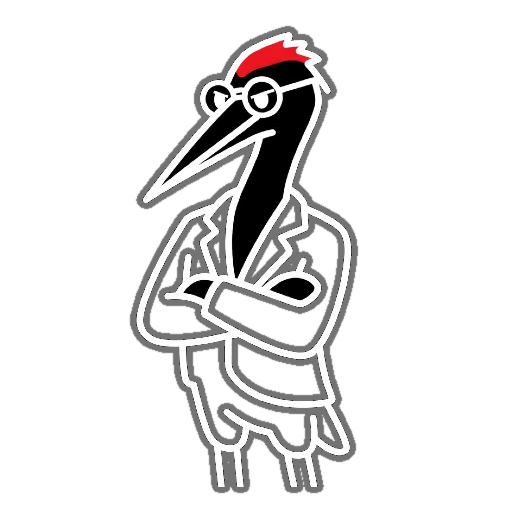
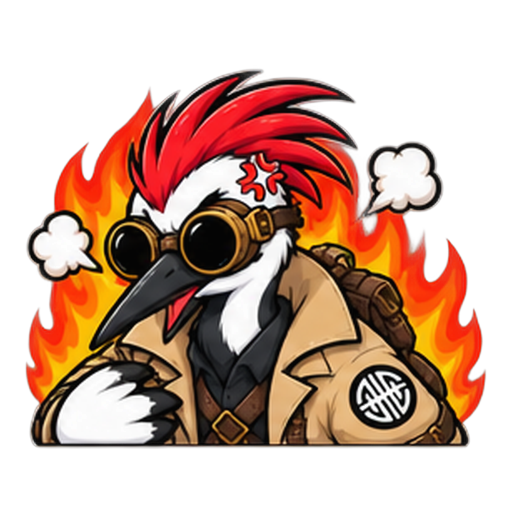
update mascot

diff --git a/mascot/README.md b/mascot/README.md
@@ -1,0 +1,26 @@
+# Mascot (Hak)
+
+Collection of 20 mascot artworks for [Noir](https://github.com/owasp-noir/noir).
+
+| File | Description | Preview |
+|---|---|---|
+| [`hak.png`](hak.png) | Default (Standing) | <img src="hak.png" width="120" /> |
+| [`hak-dev.png`](hak-dev.png) | Developer / Laptop | <img src="hak-dev.png" width="120" /> |
+| [`hak-hacker.png`](hak-hacker.png) | Multi-screen Terminal / Hacker | <img src="hak-hacker.png" width="120" /> |
+| [`hak-inspect.png`](hak-inspect.png) | Magnifying Glass / Inspection | <img src="hak-inspect.png" width="120" /> |
+| [`hak-idea.png`](hak-idea.png) | Lightbulb / Idea | <img src="hak-idea.png" width="120" /> |
+| [`hak-think.png`](hak-think.png) | Thinking / Pondering | <img src="hak-think.png" width="120" /> |
+| [`hak-question.png`](hak-question.png) | Question / Confused | <img src="hak-question.png" width="120" /> |
+| [`hak-good.png`](hak-good.png) | Thumbs Up / Good | <img src="hak-good.png" width="120" /> |
+| [`hak-love.png`](hak-love.png) | Heart / Love | <img src="hak-love.png" width="120" /> |
+| [`hak-peace.png`](hak-peace.png) | Peace / Victory | <img src="hak-peace.png" width="120" /> |
+| [`hak-wave.png`](hak-wave.png) | Waving / Greeting | <img src="hak-wave.png" width="120" /> |
+| [`hak-call.png`](hak-call.png) | Phone Call / Speaking | <img src="hak-call.png" width="120" /> |
+| [`hak-coffee.png`](hak-coffee.png) | Coffee Break | <img src="hak-coffee.png" width="120" /> |
+| [`hak-boss.png`](hak-boss.png) | Boss / Executive Chair | <img src="hak-boss.png" width="120" /> |
+| [`hak-anger.png`](hak-anger.png) | Rage / Fire | <img src="hak-anger.png" width="120" /> |
+| [`hak-sleep.png`](hak-sleep.png) | Sleep / Tired / Zzz | <img src="hak-sleep.png" width="120" /> |
+| [`hak-run.png`](hak-run.png) | Running / Dash | <img src="hak-run.png" width="120" /> |
+| [`hak-map.png`](hak-map.png) | Explorer / Treasure Map | <img src="hak-map.png" width="120" /> |
+| [`hak-binoculars.png`](hak-binoculars.png) | Binoculars / Scouting | <img src="hak-binoculars.png" width="120" /> |
+| [`hak-back.png`](hak-back.png) | Back View / Logo Jacket | <img src="hak-back.png" width="120" /> |
